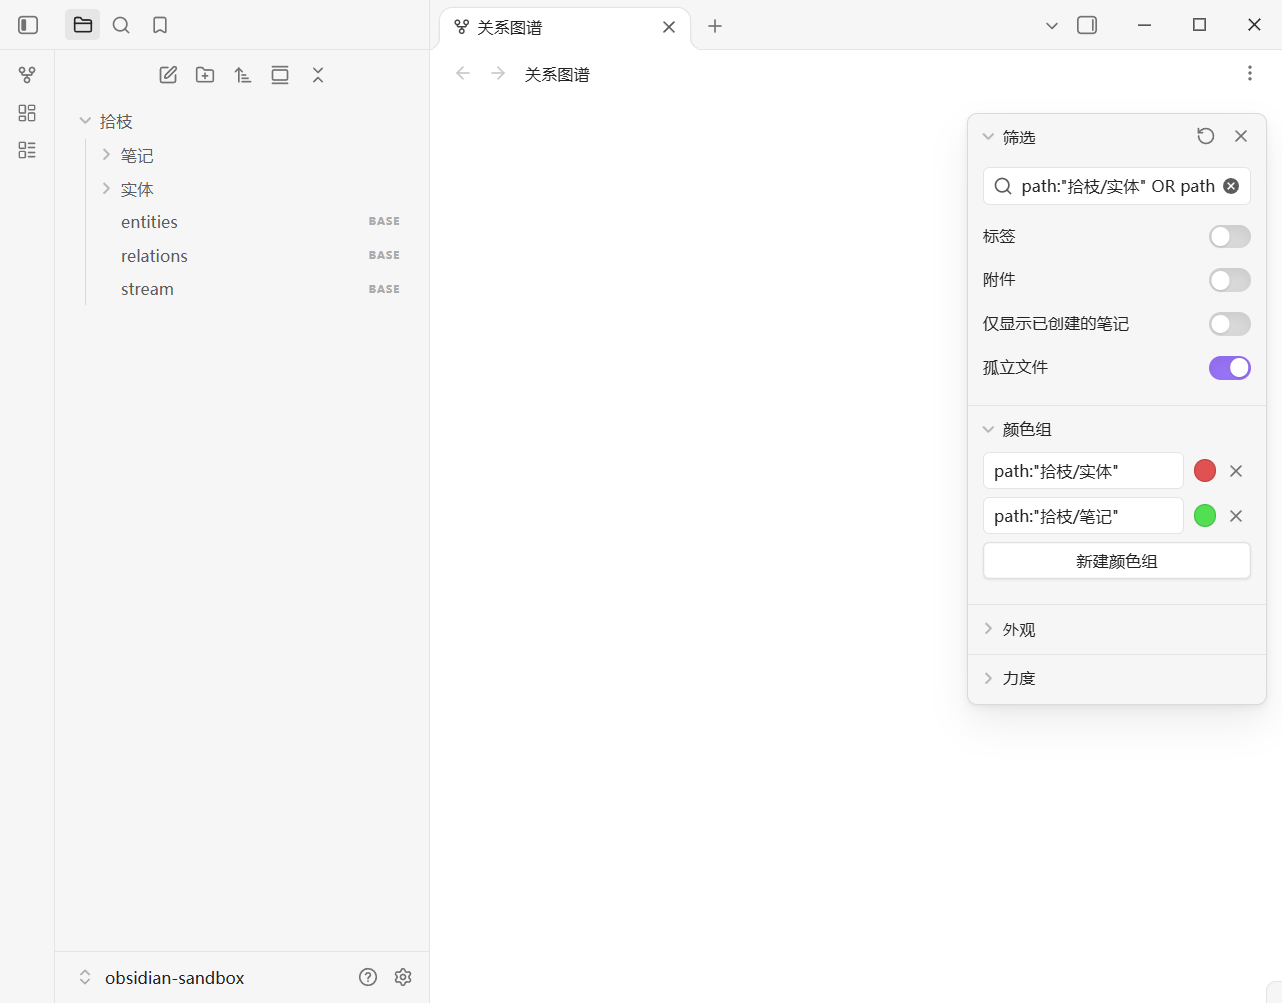
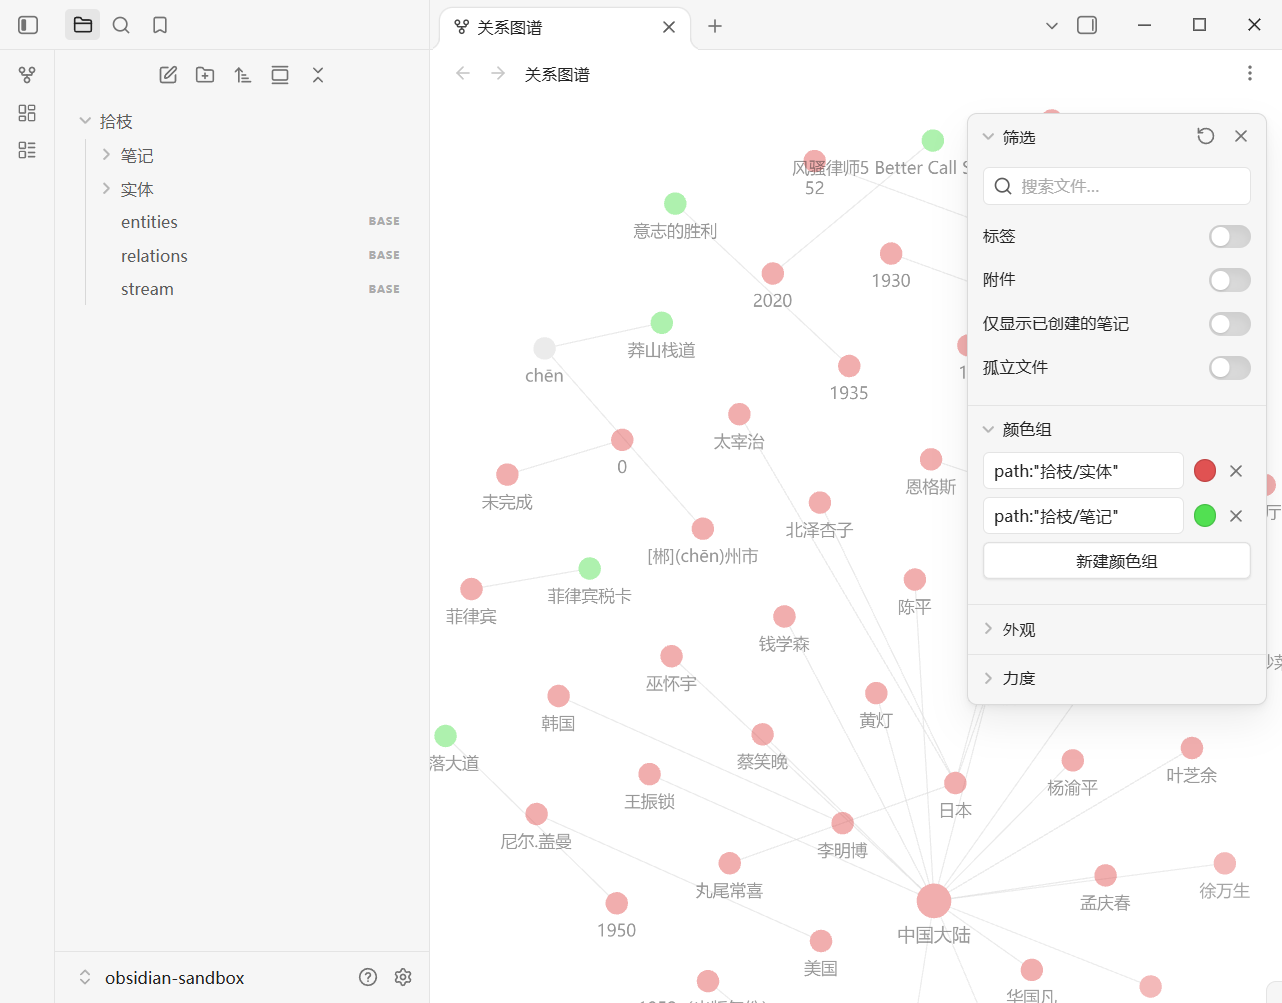
docs: 附一份可用的原生关系图参数

diff --git a/README.md b/README.md
@@ -48,6 +48,13 @@ lifelog_relations:
 | 0.2.0 | `import` command for an existing `lifelog.db` (desktop, sql.js read-only) |
 | 0.3.0 | relation validation (a `name` must resolve to an entity note) |
 
+## Graph settings that work
+
+Copy `templates/graph.json` to `<vault>/.obsidian/graph.json` (or set the same values in the graph panel):
+tags and attachments off, orphans off, colour groups by folder (`拾枝/实体` red, `拾枝/笔记` green),
+`repelStrength -400`, `centerStrength 0.35`, `linkDistance 160`. Without this the native graph draws
+5k tag dots and buries your notes.
+
 ## Importing an existing LifeLog database
 
 Desktop: `pnpm dump:db "<path>/lifelog.db" lifelog-dump.json` (uses sql.js, read-only), then in Obsidian
